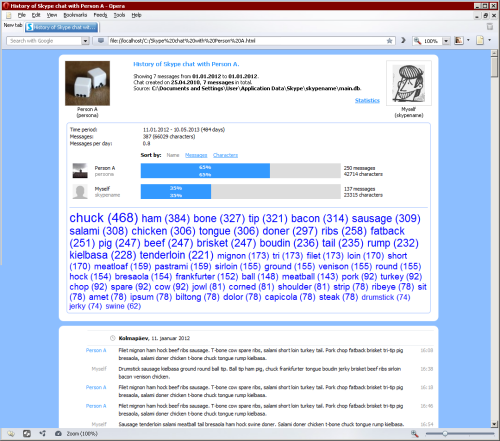
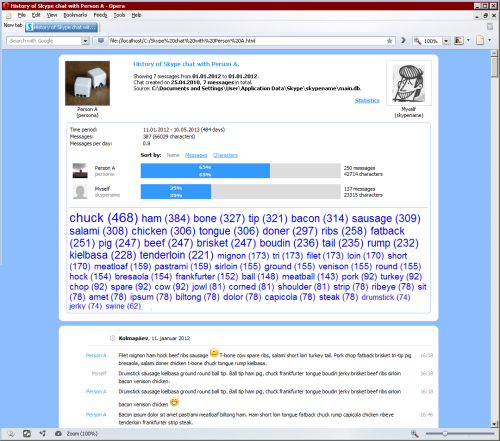
Updated links, texts and screenshots to v1.5.

Changed region(s): [[0.15, 0.7664, 0.87, 0.9728]]

diff --git a/index.html b/index.html
@@ -38,9 +38,9 @@
           <a href="https://github.com/suurjaak/Skyperious">View the Project on GitHub <small>suurjaak/Skyperious</small></a>
         </p>
         <ul>
-          <li><a href="http://erki.lap.ee/downloads/Skyperious/skyperious_1.4_setup.exe">Download <strong>Setup</strong></a></li>
-          <li><a href="http://erki.lap.ee/downloads/Skyperious/skyperious_1.4_x64_setup.exe">Download <strong>64bit Setup</strong></a></li>
-          <li><a href="http://erki.lap.ee/downloads/Skyperious/skyperious_1.4-src.zip">Download <strong>Source</strong></a></li>
+          <li><a href="http://erki.lap.ee/downloads/Skyperious/skyperious_1.5_setup.exe">Download <strong>Setup</strong></a></li>
+          <li><a href="http://erki.lap.ee/downloads/Skyperious/skyperious_1.5_x64_setup.exe">Download <strong>64bit Setup</strong></a></li>
+          <li><a href="http://erki.lap.ee/downloads/Skyperious/skyperious_1.5-src.zip">Download <strong>Source</strong></a></li>
         </ul>
       </header>
       <section>
@@ -87,6 +87,9 @@ Skyperious has been built using the following open-source software:
 <li>PyInstaller 2.0, <a href="http://www.pyinstaller.org">www.pyinstaller.org</a></li>
 </ul>
 
+<p>Emoticon images in HTML export are property of Skype Limited, &copy; 2004-2006,
+released under the Skype Component License 1.0.</p>
+
 <p>Default avatar icon from:
   Fancy Avatars, &copy; 2009 Brandon Mathis,
   <a href="http://brandonmathis.com/projects/fancy-avatars/">http://brandonmathis.com/projects/fancy-avatars/</a></p>
@@ -98,16 +101,17 @@ Skyperious has been built using the following open-source software:
 
 <h2>Dependencies</h2>
 
-<p>In source code form, Skyperious needs wxPython 2.9 (<a href="http://wxpython.org/">http://wxpython.org/</a>).</p>
+<p>In source code form, Skyperious needs Python 2.7 (<a href="http://www.python.org">www.python.org</a>)
+and wxPython 2.9 (<a href="http://wxpython.org/">http://wxpython.org/</a>). *</p>
 
-The following 3rd-party Python packages are used for convenient date period
-choices in chat history, and for importing contacts, not strictly required:
+The following 3rd-party Python packages are used, but not strictly required
+(used for convenient date period choices in chat history, and for importing contacts, if present):
 <ul>
 <li>dateutil, <a href="https://pypi.python.org/pypi/python-dateutil">pypi.python.org/pypi/python-dateutil</a></li>
 <li>Skype4Py, <a href="https://github.com/awahlig/skype4py">github.com/awahlig/skype4py</a></li>
 </ul>
 
-<p>Skyperious can also run under Python 2.6 and wxPython 2.8, with some layout quirks.</p>
+<p>* Skyperious can also run under Python 2.6 and wxPython 2.8, with some layout quirks.</p>
 
 
 <h2>License</h2>

diff --git a/changelog.html b/changelog.html
@@ -38,14 +38,33 @@
           <a href="https://github.com/suurjaak/Skyperious">View the Project on GitHub <small>suurjaak/Skyperious</small></a>
         </p>
         <ul>
-          <li><a href="http://erki.lap.ee/downloads/Skyperious/skyperious_1.4_setup.exe">Download <strong>Setup</strong></a></li>
-          <li><a href="http://erki.lap.ee/downloads/Skyperious/skyperious_1.4_x64_setup.exe">Download <strong>64bit Setup</strong></a></li>
-          <li><a href="http://erki.lap.ee/downloads/Skyperious/skyperious_1.4-src.zip">Download <strong>Source</strong></a></li>
+          <li><a href="http://erki.lap.ee/downloads/Skyperious/skyperious_1.5_setup.exe">Download <strong>Setup</strong></a></li>
+          <li><a href="http://erki.lap.ee/downloads/Skyperious/skyperious_1.5_x64_setup.exe">Download <strong>64bit Setup</strong></a></li>
+          <li><a href="http://erki.lap.ee/downloads/Skyperious/skyperious_1.5-src.zip">Download <strong>Source</strong></a></li>
         </ul>
       </header>
 
       <section>
         <h2>Changelog</h2>
+
+        <h4>v1.5, 2013-06-17:</h4>
+        <ul>
+          <li>animated emoticons in HTML export;</li>
+          <li>highlight multiple word cloud items in HTML export;</li>
+          <li>install option to associate Skyperious with *.db files;</li>
+          <li>search results limit raised from 400 to 1000;</li>
+          <li>SQL window last text reloaded on opening same database;</li>
+          <li>option to hide log window;
+          </li>
+          <li>improved support for Python 2.6 + wx 2.8;</li>
+          <li>dateutil and Skype4Py modules included optionally when running from source;</li>
+          <li>fixed issues with formatting emoticons in older message texts;</li>
+          <li>fixed opening corrupt SQLite databases;</li>
+          <li>fixed word cloud calculation failing under certain odds;</li>
+          <li>fixed bug with disabling multiple instances;</li>
+          <li>moved source files under src/.</li>
+        </ul>
+        <br />
 
         <h4>v1.4, 2013-06-09:</h4>
         <ul>

diff --git a/downloads.html b/downloads.html
@@ -38,9 +38,9 @@
           <a href="https://github.com/suurjaak/Skyperious">View the Project on GitHub <small>suurjaak/Skyperious</small></a>
         </p>
         <ul>
-          <li><a href="http://erki.lap.ee/downloads/Skyperious/skyperious_1.4_setup.exe">Download <strong>Setup</strong></a></li>
-          <li><a href="http://erki.lap.ee/downloads/Skyperious/skyperious_1.4_x64_setup.exe">Download <strong>64bit Setup</strong></a></li>
-          <li><a href="http://erki.lap.ee/downloads/Skyperious/skyperious_1.4-src.zip">Download <strong>Source</strong></a></li>
+          <li><a href="http://erki.lap.ee/downloads/Skyperious/skyperious_1.5_setup.exe">Download <strong>Setup</strong></a></li>
+          <li><a href="http://erki.lap.ee/downloads/Skyperious/skyperious_1.5_x64_setup.exe">Download <strong>64bit Setup</strong></a></li>
+          <li><a href="http://erki.lap.ee/downloads/Skyperious/skyperious_1.5-src.zip">Download <strong>Source</strong></a></li>
         </ul>
       </header>
       <section>

diff --git a/screens.html b/screens.html
@@ -38,9 +38,9 @@
           <a href="https://github.com/suurjaak/Skyperious">View the Project on GitHub <small>suurjaak/Skyperious</small></a>
         </p>
         <ul>
-          <li><a href="http://erki.lap.ee/downloads/Skyperious/skyperious_1.4_setup.exe">Download <strong>Setup</strong></a></li>
-          <li><a href="http://erki.lap.ee/downloads/Skyperious/skyperious_1.4_x64_setup.exe">Download <strong>64bit Setup</strong></a></li>
-          <li><a href="http://erki.lap.ee/downloads/Skyperious/skyperious_1.4-src.zip">Download <strong>Source</strong></a></li>
+          <li><a href="http://erki.lap.ee/downloads/Skyperious/skyperious_1.5_setup.exe">Download <strong>Setup</strong></a></li>
+          <li><a href="http://erki.lap.ee/downloads/Skyperious/skyperious_1.5_x64_setup.exe">Download <strong>64bit Setup</strong></a></li>
+          <li><a href="http://erki.lap.ee/downloads/Skyperious/skyperious_1.5-src.zip">Download <strong>Source</strong></a></li>
         </ul>
       </header>
       <section>
